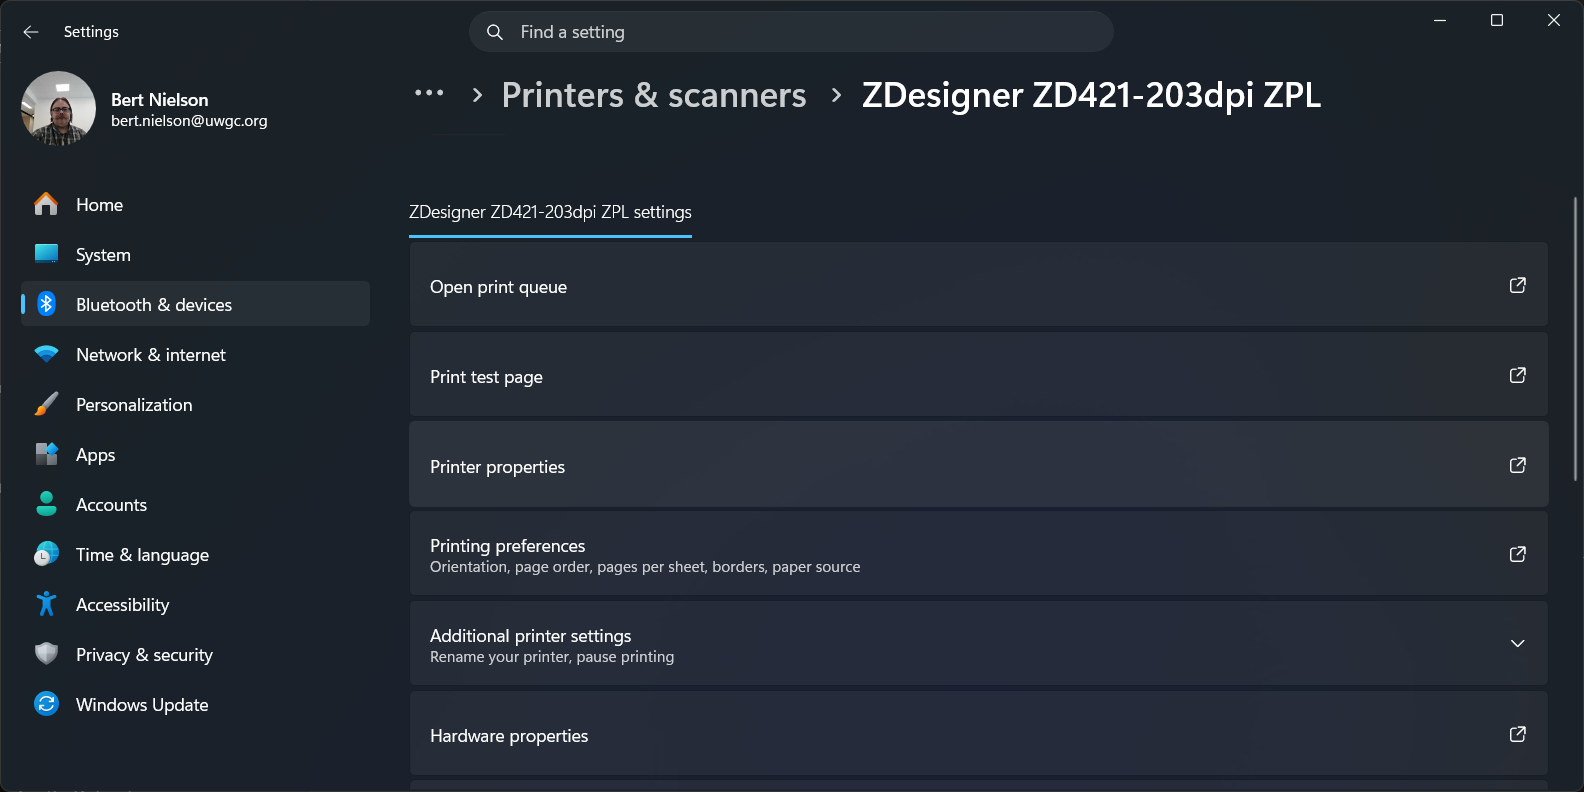
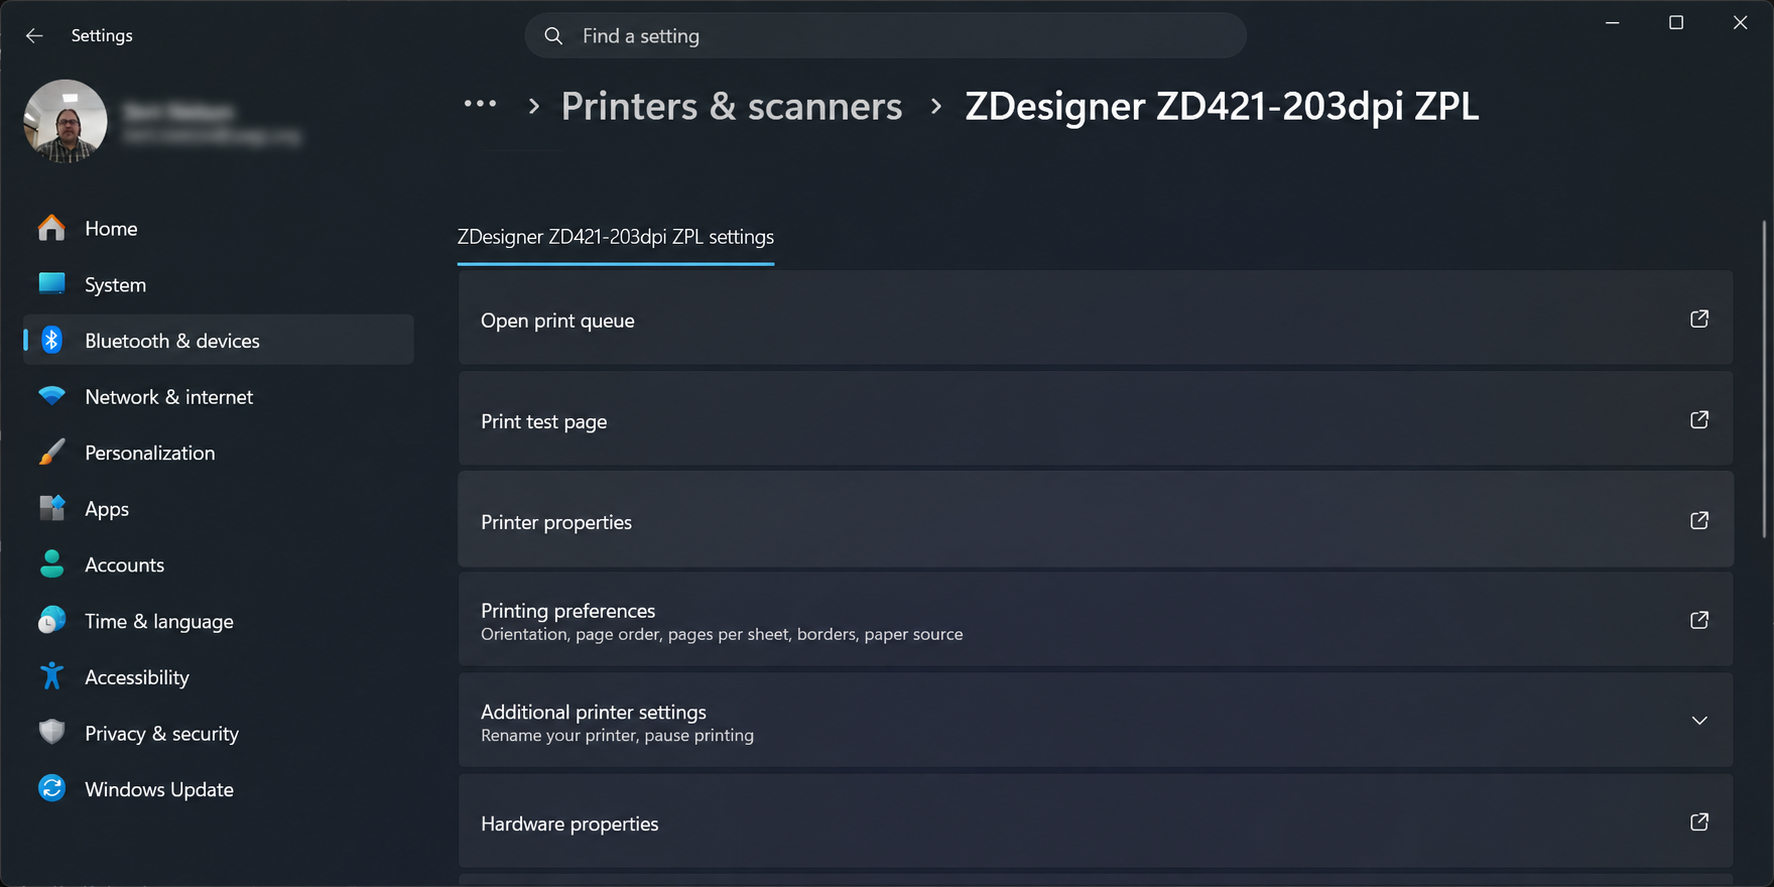
checkpoint: add retirement and board badge examples

diff --git a/tools/build_conga_badge_template.py b/tools/build_conga_badge_template.py
@@ -4,7 +4,8 @@ Uses only the Python standard library so the template can be rebuilt anywhere:
 
     python tools/build_conga_badge_template.py
     python tools/build_conga_badge_template.py --preferred-name-token "{{...}}" \
-        --last-name-token "{{...}}" --affiliation-token "{{...}}"
+        --last-name-token "{{...}}" --affiliation-token "{{...}}" \
+        --retired-token "{{...}}" --board-affiliations-token "{{...}}"
 
 Pass the exact tokens copied from Conga Template Builder once they are known.
 """
@@ -62,25 +63,42 @@ def name_paragraph(spec, preferred_token, last_token):
     )
 
 
-def affiliation_paragraph(spec, token):
+def word_if_field(rpr, code, placeholder):
+    return (
+        f'<w:r>{rpr}<w:fldChar w:fldCharType="begin"/></w:r>'
+        f'<w:r>{rpr}<w:instrText xml:space="preserve">{escape(code)}</w:instrText></w:r>'
+        f'<w:r>{rpr}<w:fldChar w:fldCharType="separate"/></w:r>'
+        f"{text_run(rpr, placeholder)}"
+        f'<w:r>{rpr}<w:fldChar w:fldCharType="end"/></w:r>'
+    )
+
+
+def affiliation_paragraph(spec, token, retired_token):
     org = spec["layout"]["organization"]
     rpr = run_props(org["initial_font_family"], org["initial_font_pt"])
     fallback = org["blank_fallback"]
     # A real Word IF field with the Conga token inside it; Conga merges the token,
     # then Word evaluates the IF to show the fallback for a blank affiliation.
     code = f' IF "{token}" = "" "{fallback}" "{token}" '
+    suffix = org["retired_suffix"]
+    retired_true = org["retired_status_true_value"]
+    retired_code = f' IF "{retired_token}" = "{retired_true}" "{suffix}" "" '
     return (
         f"<w:p>{para_props(rpr)}"
-        f'<w:r>{rpr}<w:fldChar w:fldCharType="begin"/></w:r>'
-        f'<w:r>{rpr}<w:instrText xml:space="preserve">{escape(code)}</w:instrText></w:r>'
-        f'<w:r>{rpr}<w:fldChar w:fldCharType="separate"/></w:r>'
-        f"{text_run(rpr, token)}"
-        f'<w:r>{rpr}<w:fldChar w:fldCharType="end"/></w:r>'
+        f"{word_if_field(rpr, code, token)}"
+        f"{word_if_field(rpr, retired_code, retired_token)}"
         "</w:p>"
     )
 
 
-def document_xml(spec, preferred_token, last_token, affiliation_token):
+def board_affiliations_paragraph(spec, token):
+    board = spec["layout"]["board_affiliations"]
+    rpr = run_props(board["initial_font_family"], board["initial_font_pt"])
+    code = f' IF "{token}" = "" "" "{token}" '
+    return f"<w:p>{para_props(rpr)}{word_if_field(rpr, code, token)}</w:p>"
+
+
+def document_xml(spec, preferred_token, last_token, affiliation_token, retired_token, board_token):
     layout, media = spec["layout"], spec["media"]
     page_w, page_h = twips(layout["page_width_mm"]), twips(layout["page_height_mm"])
     side = twips(layout["content_left_margin_from_page_mm"])
@@ -108,7 +126,8 @@ def document_xml(spec, preferred_token, last_token, affiliation_token):
         f'<w:tr><w:trPr><w:cantSplit/><w:trHeight w:val="{row_h}" w:hRule="exact"/></w:trPr>'
         f'<w:tc><w:tcPr><w:tcW w:w="{content_w}" w:type="dxa"/><w:vAlign w:val="center"/></w:tcPr>'
         f"{name_paragraph(spec, preferred_token, last_token)}"
-        f"{affiliation_paragraph(spec, affiliation_token)}"
+        f"{affiliation_paragraph(spec, affiliation_token, retired_token)}"
+        f"{board_affiliations_paragraph(spec, board_token)}"
         "</w:tc></w:tr></w:tbl>"
     )
     trailing = (
@@ -189,7 +208,7 @@ CORE_XML = (
 )
 
 
-def build(output, preferred_token, last_token, affiliation_token):
+def build(output, preferred_token, last_token, affiliation_token, retired_token, board_token):
     spec = json.loads(SPEC.read_text(encoding="utf-8"))
     output = Path(output)
     output.parent.mkdir(parents=True, exist_ok=True)
@@ -197,7 +216,9 @@ def build(output, preferred_token, last_token, affiliation_token):
         "[Content_Types].xml": CONTENT_TYPES_XML,
         "_rels/.rels": ROOT_RELS_XML,
         "docProps/core.xml": CORE_XML,
-        "word/document.xml": document_xml(spec, preferred_token, last_token, affiliation_token),
+        "word/document.xml": document_xml(
+            spec, preferred_token, last_token, affiliation_token, retired_token, board_token
+        ),
         "word/styles.xml": STYLES_XML,
         "word/settings.xml": SETTINGS_XML,
         "word/_rels/document.xml.rels": DOC_RELS_XML,
@@ -217,8 +238,13 @@ def main():
     parser.add_argument("--preferred-name-token", default="{{PREFERRED_NAME_CONGA_FIELD}}")
     parser.add_argument("--last-name-token", default="{{LAST_NAME_CONGA_FIELD}}")
     parser.add_argument("--affiliation-token", default="{{PRIMARY_AFFILIATION_CONGA_FIELD}}")
+    parser.add_argument("--retired-token", default="{{RETIRED_STATUS_CONGA_FIELD}}")
+    parser.add_argument("--board-affiliations-token", default="{{BOARD_AFFILIATIONS_CONGA_FIELD}}")
     args = parser.parse_args()
-    out = build(args.output, args.preferred_name_token, args.last_name_token, args.affiliation_token)
+    out = build(
+        args.output, args.preferred_name_token, args.last_name_token,
+        args.affiliation_token, args.retired_token, args.board_affiliations_token,
+    )
     print(f"Wrote {out}")
 
 

diff --git a/tests/test_build_conga_badge_template.py b/tests/test_build_conga_badge_template.py
@@ -1,8 +1,8 @@
 import re
 import subprocess
 import sys
-import tempfile
 import unittest
+import uuid
 import zipfile
 from pathlib import Path
 
@@ -17,8 +17,9 @@ def mm_to_twips(mm):
 class BuildCongaBadgeTemplateTest(unittest.TestCase):
     @classmethod
     def setUpClass(cls):
-        cls.tmp = tempfile.TemporaryDirectory()
-        cls.out = Path(cls.tmp.name) / "badge.docx"
+        cls.tmp = REPO / "tests" / ".tmp"
+        cls.tmp.mkdir(exist_ok=True)
+        cls.out = cls.tmp / f"badge-{uuid.uuid4().hex}.docx"
         subprocess.run(
             [sys.executable, str(BUILDER), "--output", str(cls.out)],
             check=True,
@@ -29,7 +30,7 @@ class BuildCongaBadgeTemplateTest(unittest.TestCase):
 
     @classmethod
     def tearDownClass(cls):
-        cls.tmp.cleanup()
+        cls.out.unlink(missing_ok=True)
 
     def test_package_has_required_parts(self):
         for part in ("[Content_Types].xml", "_rels/.rels", "word/document.xml",
@@ -73,19 +74,51 @@ class BuildCongaBadgeTemplateTest(unittest.TestCase):
         )
         self.assertIn('<w:sz w:val="30"/>', self.doc)
 
+    def test_retirement_and_board_affiliations_are_in_the_badge(self):
+        self.assertIn(
+            ' IF "{{RETIRED_STATUS_CONGA_FIELD}}" = "True" " (Retired)" "" ',
+            self.doc,
+        )
+        self.assertRegex(
+            self.doc,
+            re.compile(
+                r'IF "{{RETIRED_STATUS_CONGA_FIELD}}" = "True".*?'
+                r'fldCharType="separate".*?'
+                r'<w:t[^>]*>{{RETIRED_STATUS_CONGA_FIELD}}</w:t>',
+                re.S,
+            ),
+        )
+        self.assertIn(
+            ' IF "{{BOARD_AFFILIATIONS_CONGA_FIELD}}" = "" "" '
+            '"{{BOARD_AFFILIATIONS_CONGA_FIELD}}" ',
+            self.doc,
+        )
+        board_para = re.search(
+            r"<w:p>(?:(?!</w:p>).)*BOARD_AFFILIATIONS_CONGA_FIELD(?:(?!</w:p>).)*</w:p>",
+            self.doc,
+            re.S,
+        )
+        self.assertIsNotNone(board_para)
+        self.assertIn('<w:sz w:val="30"/>', board_para.group(0))
+
     def test_custom_tokens_replace_placeholders(self):
-        out = Path(self.tmp.name) / "custom.docx"
+        out = self.tmp / f"custom-{uuid.uuid4().hex}.docx"
+        self.addCleanup(out.unlink, missing_ok=True)
         subprocess.run(
             [sys.executable, str(BUILDER), "--output", str(out),
              "--preferred-name-token", "{{PREF}}",
              "--last-name-token", "{{LAST}}",
-             "--affiliation-token", "{{AFFIL}}"],
+             "--affiliation-token", "{{AFFIL}}",
+             "--retired-token", "{{RETIRED}}",
+             "--board-affiliations-token", "{{BOARD}}"],
             check=True,
         )
         with zipfile.ZipFile(out) as z:
             doc = z.read("word/document.xml").decode("utf-8")
         self.assertIn("{{PREF}} {{LAST}}", doc)
         self.assertIn('IF "{{AFFIL}}" = ""', doc)
+        self.assertIn('IF "{{RETIRED}}" = "True"', doc)
+        self.assertIn('IF "{{BOARD}}" = ""', doc)
         self.assertNotIn("CONGA_FIELD", doc)
 
 

diff --git a/docs/conga-template-plan.md b/docs/conga-template-plan.md
@@ -2,18 +2,24 @@
 
 The first version is a single-badge Word template for Conga Composer for Salesforce, rendered to PDF for printing. It uses the geometry and draft typography in [badge-template-spec.json](badge-template-spec.json). The JSON records design inputs; it is not a Conga template.
 
-Synthetic [one-line](badge-preview-short.png) and [two-line](badge-preview-long.png) previews show the intended arrangement on the **76 mm sticker only**. They are geometry previews rendered at 203 dpi, matching the Windows 11 driver name reported by the user, not Conga output or files to send to the printer.
+## Badge content
+
+Keep the organization on its existing line and append ` (Retired)` when the person is retired from that primary affiliation. Put board affiliation beneath the organization, using `Board of Directors` and/or `Foundation Board` when applicable. Omit the board line when neither affiliation applies; if both apply, put each on its own line. This keeps retirement attached to the organization and board service distinct. The current 15 pt affiliation typography applies to these lines; review any overflow rather than shrinking below 15 pt.
+
+The spec reserves source fields and Conga tokens for retirement status and board affiliations, but their Salesforce API names and exact Template Builder tokens still need confirmation. Do not infer them from the display labels. The retirement value must merge as `True` only when a primary affiliation is present and the person is retired from it. The board value must merge as blank, one allowed label, or both labels separated by a line break. Confirm those output formats in a Conga test merge.
+
+Synthetic [one-line](badge-preview-short.png) and [two-line](badge-preview-long.png) previews show the original name and affiliation arrangement on the **76 mm sticker only**; they do not show the added retirement or board content. They are geometry previews rendered at 203 dpi, matching the Windows 11 driver name reported by the user, not Conga output or files to send to the printer.
 
 ## Building the Word template
 
 [tools/build_conga_badge_template.py](../tools/build_conga_badge_template.py) generates `templates/conga-badge-template.docx` from the spec, using only the Python standard library. Once the exact Template Builder tokens are known, pass them in and rebuild instead of editing field codes by hand:
 
 ```
-python tools/build_conga_badge_template.py --preferred-name-token "{{...}}" --last-name-token "{{...}}" --affiliation-token "{{...}}"
+python tools/build_conga_badge_template.py --preferred-name-token "{{...}}" --last-name-token "{{...}}" --affiliation-token "{{...}}" --retired-token "{{...}}" --board-affiliations-token "{{...}}"
 python -m unittest tests.test_build_conga_badge_template
 ```
 
-The affiliation paragraph is a real Word IF field wrapping the Conga token. Press Alt+F9 in Word to see the field code. With placeholder tokens the text looks clipped in Word because the tokens are longer than real names. Merged output is the thing to judge.
+The affiliation fallback, retired suffix, and optional board text are real Word IF fields wrapping Conga tokens. The unmerged template shows `{{RETIRED_STATUS_CONGA_FIELD}}` as the retirement field's visible placeholder; press Alt+F9 in Word to see the IF code that turns a merged `True` into ` (Retired)`. The exact Salesforce field and Conga token are still unconfirmed. With placeholder tokens the text looks clipped in Word because the tokens are longer than real names. Merged output is the thing to judge.
 
 ## Artwork and media
 
@@ -21,26 +27,28 @@ The affiliation paragraph is a real Word IF field wrapping the Conga token. Pres
 - The **3 mm gap** is between stickers on the roll. It belongs in the printer media setting, not in the document page height. The label pitch is 53 mm.
 - The Windows print queue appears as **ZDesigner ZD421-203dpi ZPL**. At the nominal 8 dots per mm, the label is 608 by 400 dots and the 3 mm gap is 24 dots. Use physical dimensions for the Word and PDF page; the dot counts are reference values for printer diagnostics or ZPL work.
 - Start with a 3 mm safe inset inside the sticker on every side, leaving a provisional 70 mm by 44 mm content area. Adjust it after a physical print check.
-- Use a borderless one-cell table covering that content area. Set its cell to vertical middle alignment. Center both paragraphs horizontally in the cell so the name and organization move together as one block when the name wraps.
+- Use a borderless one-cell table covering that content area. Set its cell to vertical middle alignment. Center the name, organization, and board paragraphs horizontally in the cell so they move together as one block when the name wraps.
 - Put `{{PREFERRED_NAME_CONGA_FIELD}} {{LAST_NAME_CONGA_FIELD}}` on one centered paragraph at an initial **26 pt Arial Bold**. Allow normal word wrapping up to two lines. A short name stays on one line. Check that Preferred Communication Name contains only the intended given or preferred name so Last Name is not repeated.
-- Put `{{PRIMARY_AFFILIATION_CONGA_FIELD}}` beneath it on a centered paragraph at **15 pt Arial**. The source is Contact Primary Affiliation. Supply an approved abbreviation when the full affiliation does not fit. For a blank affiliation, display **Individual Donor**. Do not silently truncate it.
+- Put `{{PRIMARY_AFFILIATION_CONGA_FIELD}}` beneath it on a centered paragraph at **15 pt Arial**. The source is Contact Primary Affiliation. Append ` (Retired)` only when the affiliation is nonblank and the separate retirement status field is true. For a blank affiliation, display **Individual Donor** without the retired suffix. Supply an approved abbreviation when the full affiliation does not fit. Do not silently truncate it.
+- Put board affiliations beneath the organization in a centered **15 pt Arial** paragraph. The merged display value must be blank, `Board of Directors`, `Foundation Board`, or both labels separated by a line break. The Word IF field hides the text when the value is blank, though the empty paragraph remains in the template. Confirm whether Salesforce provides one multi-select field or separate membership fields before choosing the display value.
 - Treat 26 pt and the 3 mm safe inset as first-pass values. Never reduce either text style below 15 pt. If a name exceeds two lines, review a smaller-font fallback or an approved display-name spelling before printing.
 
 ## Conga and Salesforce setup
 
-The Salesforce source fields supplied are `Contact.Preferred_Communication_Name__c`, `Contact.LastName`, and `Contact.Primary_Affiliation__c`. The `{!Contact...}` form is Salesforce reference syntax, not a confirmed Conga Word merge token. Conga Word text merge fields use `{{...}}`, and the field name must match Template Builder exactly.
+The Salesforce source fields supplied are `Contact.Preferred_Communication_Name__c`, `Contact.LastName`, and `Contact.Primary_Affiliation__c`. Retirement status and board affiliation fields remain to be identified with the Salesforce owner. The `{!Contact...}` form is Salesforce reference syntax, not a confirmed Conga Word merge token. Conga Word text merge fields use `{{...}}`, and the field name must match Template Builder exactly.
 
-1. In Conga Composer's Template Builder, select Word format with Include Label off, copy the three exact tokens for these Contact fields, and replace the corresponding placeholders. Confirm the Contact record is the solution's master record or that all three fields appear in its dataset. A test merge must confirm their values.
+1. Confirm the Salesforce field API names for retirement status and board affiliation with the Salesforce owner. In Conga Composer's Template Builder, select Word format with Include Label off, copy the exact tokens for all source fields, and replace the corresponding placeholders. Confirm the Contact record is the solution's master record or that all fields appear in its dataset. A test merge must confirm that retirement yields `True` only for a nonblank affiliation and that board membership yields the exact display labels and line break described above.
 2. For a blank Primary Affiliation, a Word IF field can display **Individual Donor**; Conga requires the IF itself to be a real Word field, with the Conga token inside it. Alternatively, a controlled Salesforce display field or query expression can supply the fallback. An approved abbreviation still needs a defined source; the raw affiliation field cannot choose one from its length alone.
 3. Store the Word file as a Conga template and configure the solution for **one record and one badge per run**, with PDF output. Do not add repeating detail regions.
 4. In the Zebra driver, use the **79 mm media width**, **50 mm sticker length**, and **3 mm gap**, then print at actual size. The document page leaves 1.5 mm blank on each side over the backing. Confirm gap sensing and calibrate for the loaded roll.
 5. A **110 mm black thermal-transfer ribbon** is reported installed. Its width exceeds the 79 mm backing, meeting Zebra's width guidance. Verify that the driver is in thermal-transfer mode and that the ribbon formulation works with the stock. Cross-check the physical printer against the 203 dpi Windows driver during the first print proof.
-6. Test with synthetic short, long, hyphenated, and accented names; long and abbreviated organizations; and a blank organization. Inspect both the PDF and a physical print for wrapping, clipping, centering, and feed alignment.
+6. Test with synthetic short, long, hyphenated, and accented names; long and abbreviated organizations; a blank organization; retired and nonretired affiliations; and zero, one, or both board memberships. Inspect both the PDF and a physical print for wrapping, clipping, centering, and feed alignment.
 
 ## Inputs still pending
 
 - Ribbon-media pairing; verify thermal-transfer mode in the driver. Cross-check physical printer resolution during the first print proof.
 - Exact Conga Template Builder Word merge tokens, and the approved organization abbreviation source.
+- Salesforce source fields and exact Conga tokens for retirement status and Board of Directors/Foundation Board membership.
 - Confirmation that Preferred Communication Name contains the intended first-name text rather than a full name.
 - Physical print results to finalize the safe inset and font size.
 
